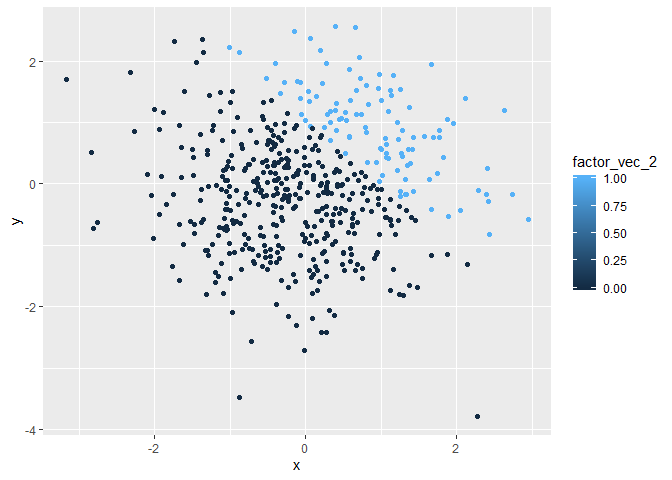
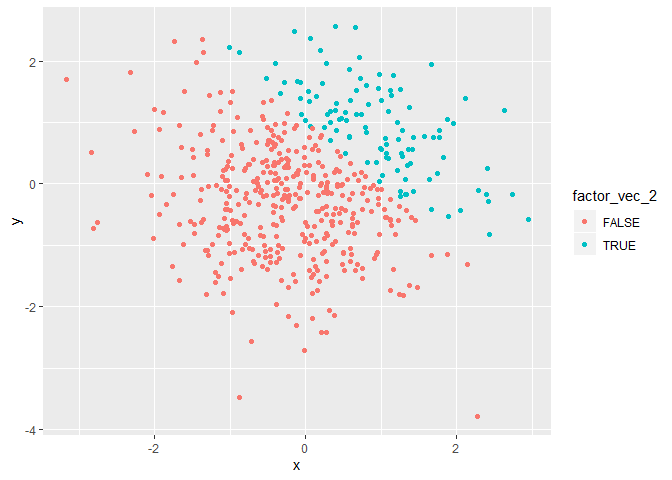
commiting

diff --git a/p8105_hw1_scl2160_markdown.md b/p8105_hw1_scl2160_markdown.md
@@ -20,14 +20,14 @@ First I am creating a dataframe that meets these requirements:
 library(tidyverse)
 ```
 
-    ## -- Attaching packages ---------------------------------------------------------------- tidyverse 1.2.1 --
+    ## -- Attaching packages ---------------------------------------------- tidyverse 1.2.1 --
 
     ## v ggplot2 3.2.1     v purrr   0.3.2
     ## v tibble  2.1.3     v dplyr   0.8.3
     ## v tidyr   0.8.3     v stringr 1.4.0
     ## v readr   1.3.1     v forcats 0.4.0
 
-    ## -- Conflicts ------------------------------------------------------------------- tidyverse_conflicts() --
+    ## -- Conflicts ------------------------------------------------- tidyverse_conflicts() --
     ## x dplyr::filter() masks stats::filter()
     ## x dplyr::lag()    masks stats::lag()
 
@@ -39,6 +39,8 @@ df_p1 = tibble(
   char_vec = c("dog","cat", "puppy", "kitten", "eggs", "sandwich", "beer", "pencil"),
   factor_vec = factor(c("pug","lab","chow","chow","lab","chow","pug","lab"))
 )
+
+#Now I find the means of each variable:
 
 mean(pull(df_p1, norm_samp))
 ```
@@ -70,25 +72,11 @@ mean(pull(df_p1, factor_vec))
     ## [1] NA
 
 ``` r
-include = FALSE
+#Next I will the as.numeric function to my logic, character, and factor vector.
 as.numeric(pull(df_p1,log_vec))
-```
-
-    ## [1] 1 1 0 0 0 1 1 0
-
-``` r
 as.numeric(pull(df_p1,char_vec))
-```
-
-    ## Warning: NAs introduced by coercion
-
-    ## [1] NA NA NA NA NA NA NA NA
-
-``` r
 as.numeric(pull(df_p1,factor_vec))
 ```
-
-    ## [1] 3 2 1 1 2 1 3 2
 
 When I take the mean of each variable in my dataframe I can only get the
 mean of ‘norm\_samp’ and ‘log\_vec’, as they are the only numeric
@@ -155,7 +143,7 @@ df_p2 = tibble(
   y = rnorm(500),
   log_vec_2 = x + y > 1,
   num_vec_2 = as.numeric(log_vec_2),
-  factor_vec_2 = as.numeric(log_vec_2)
+  factor_vec_2 = as.factor(log_vec_2)
 )
 ```
 
@@ -186,5 +174,8 @@ ggplot(df_p2, aes(x=x, y=y, color = factor_vec_2)) + geom_point()
 
 ![](p8105_hw1_scl2160_markdown_files/figure-gfm/scatter_plots-3.png)<!-- -->
 
-In the second and third plots the scale of our points is 0-1. Both
-appear to be highly segmented between 0s and 1s.
+The first and third plots are based on true/false binary vectors, so we
+only have two colors in our color scale. The second plot is based on a
+binary vector translated to a numeric variable. Our color scale is a
+gradient reflecting the range of a numeric variable, but we only see two
+colors in our plot as the values come from our vector variable (0,1).
